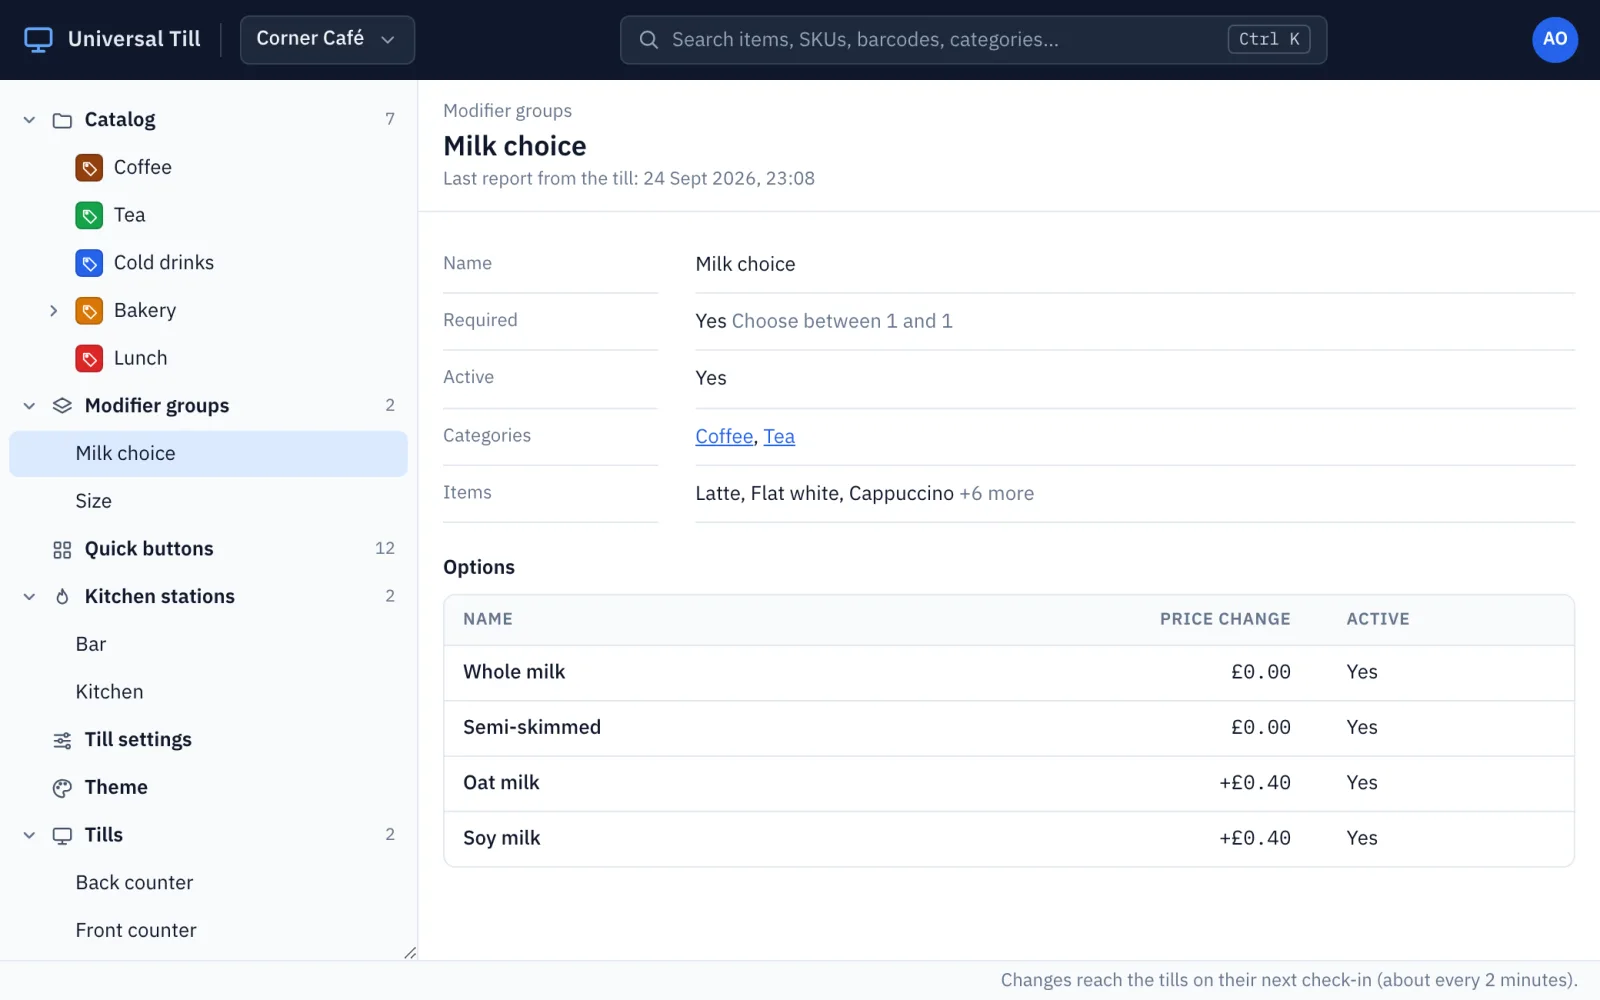
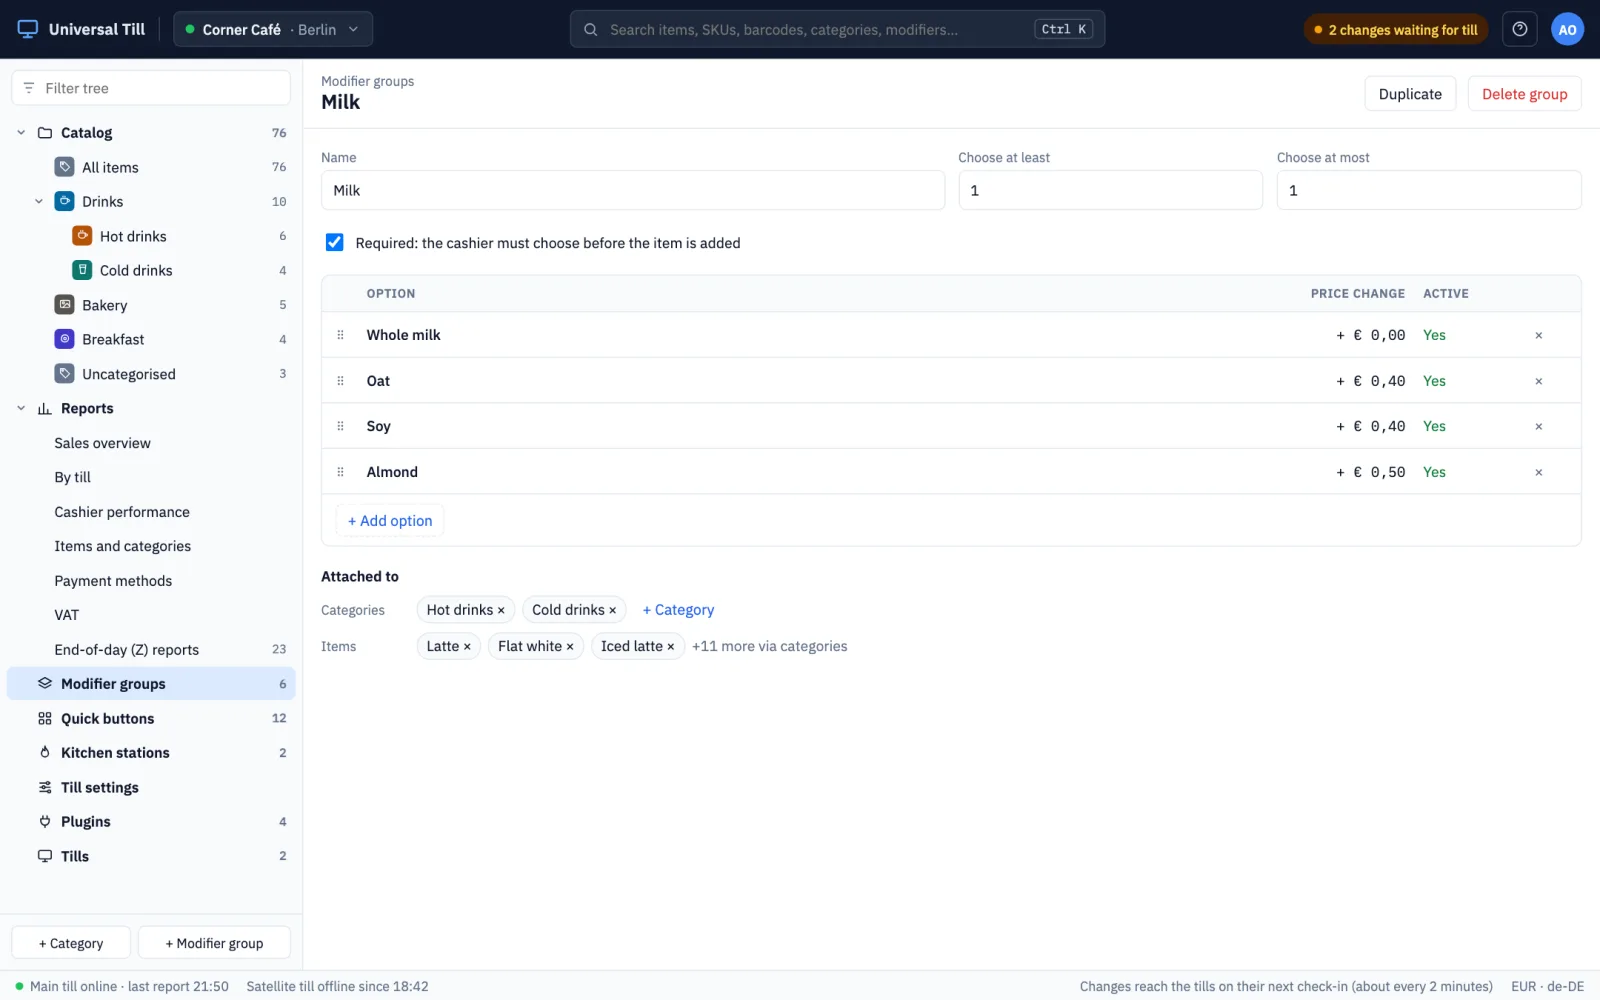
home page: Manage section shows the my.universaltill.com design (ut-docs#2611)

diff --git a/site/i18n.js b/site/i18n.js
@@ -92,10 +92,10 @@ const I18N = {
     "start.help.t": "Need a hand?",
     "start.help.d": "The till has a built-in “How to use the till” guide in your language. And you can always reach the download page for a fresh copy.",
     "manage.title": "Manage your shop from anywhere",
-    "manage.sub": "my.universaltill.com: change your catalogue, quick buttons and till settings from any browser. Every till picks the change up on its next check-in. Shown here with sample data.",
+    "manage.sub": "my.universaltill.com: change your catalogue, modifiers and till settings and see your sales from any browser. Every till picks up changes on its next check-in. Shown with sample data; some screens are still being built.",
+    "manage.catalog": "Catalogue and categories", "manage.catalog.d": "Items, prices, icons and which tills see what.",
+    "manage.reports": "Sales reports", "manage.reports.d": "Sales by hour and by till, with A4 printing. Coming soon.",
     "manage.mods": "Options and add-ons", "manage.mods.d": "Milk choices, sizes and extras, with their prices, in one place.",
-    "manage.buttons": "Quick buttons", "manage.buttons.d": "Rearrange the sale screen once and every till follows.",
-    "manage.tills": "Every till at a glance", "manage.tills.d": "Main and additional tills, their health and version.",
     "tour.title": "See it in action",
     "tour.sub": "Real screens from a running till — not mock-ups.",
     "tour.sale": "Fast touch sale screen", "tour.sale.d": "Product tiles, scan, and one-tap tender.",
@@ -269,10 +269,10 @@ const I18N = {
     "start.help.t": "Yardım mı lazım?",
     "start.help.d": "Kasada, kendi dilinizde yerleşik bir “Kasa nasıl kullanılır” kılavuzu var. Ayrıca yeni bir kopya için her zaman indirme sayfasına ulaşabilirsiniz.",
     "manage.title": "Dükkanınızı her yerden yönetin",
-    "manage.sub": "my.universaltill.com: ürün kataloğunuzu, hızlı düğmelerinizi ve kasa ayarlarınızı herhangi bir tarayıcıdan değiştirin. Her kasa değişikliği bir sonraki bağlantısında alır. Burada örnek verilerle gösterilmiştir.",
+    "manage.sub": "my.universaltill.com: ürün kataloğunuzu, seçenekleri ve kasa ayarlarını değiştirin, satışlarınızı herhangi bir tarayıcıdan görün. Her kasa değişiklikleri bir sonraki bağlantısında alır. Örnek verilerle gösterilmiştir; bazı ekranlar hâlâ geliştiriliyor.",
+    "manage.catalog": "Katalog ve kategoriler", "manage.catalog.d": "Ürünler, fiyatlar, simgeler ve hangi kasanın neyi gösterdiği.",
+    "manage.reports": "Satış raporları", "manage.reports.d": "Saatlik ve kasa bazında satışlar, A4 yazdırma ile. Yakında.",
     "manage.mods": "Seçenekler ve ekstralar", "manage.mods.d": "Süt seçenekleri, boyutlar ve ekstralar, fiyatlarıyla tek bir yerde.",
-    "manage.buttons": "Hızlı düğmeler", "manage.buttons.d": "Satış ekranını bir kez düzenleyin, tüm kasalar aynısını uygular.",
-    "manage.tills": "Tüm kasalar bir bakışta", "manage.tills.d": "Ana ve ek kasalar, durumları ve sürümleri.",
     "tour.title": "İş başında görün",
     "tour.sub": "Çalışan bir kasadan gerçek ekranlar — maket değil.",
     "tour.sale": "Hızlı dokunmatik satış ekranı", "tour.sale.d": "Ürün kutucukları, tarama ve tek dokunuşla ödeme.",
@@ -428,10 +428,10 @@ const I18N = {
     "start.help.t": "需要帮助？",
     "start.help.d": "收银台内置了以你的语言呈现的“如何使用收银台”指南。你也随时可以到下载页获取最新副本。",
     "manage.title": "随时随地管理您的店铺",
-    "manage.sub": "my.universaltill.com：在任何浏览器中修改商品目录、快捷按钮和收银台设置。每台收银台会在下次连接时获取更改。此处使用示例数据展示。",
+    "manage.sub": "my.universaltill.com：在任何浏览器中修改商品目录、选项和收银台设置，并查看销售情况。每台收银台会在下次连接时获取更改。此处使用示例数据展示；部分界面仍在开发中。",
+    "manage.catalog": "商品目录与分类", "manage.catalog.d": "商品、价格、图标，以及各收银台显示的内容。",
+    "manage.reports": "销售报表", "manage.reports.d": "按小时和按收银台统计的销售，支持 A4 打印。即将推出。",
     "manage.mods": "选项与加料", "manage.mods.d": "奶类选择、杯型和加料及其价格，集中管理。",
-    "manage.buttons": "快捷按钮", "manage.buttons.d": "只需调整一次销售界面，所有收银台同步生效。",
-    "manage.tills": "所有收银台一目了然", "manage.tills.d": "主收银台和附加收银台的状态与版本。",
     "tour.title": "实际操作演示",
     "tour.sub": "来自真实运行收银台的实拍界面 — 并非效果图。",
     "tour.sale": "快速触屏销售界面", "tour.sale.d": "商品磁贴、扫码，一键结算。",
@@ -587,10 +587,10 @@ const I18N = {
     "start.help.t": "کمک میخواهید؟",
     "start.help.d": "صندوق یک راهنمای داخلی «نحوهٔ استفاده از صندوق» به زبان شما دارد. همچنین همیشه میتوانید برای یک نسخهٔ تازه به صفحهٔ دانلود بروید.",
     "manage.title": "فروشگاهتان را از هر جایی مدیریت کنید",
-    "manage.sub": "my.universaltill.com: کاتالوگ کالا، دکمههای سریع و تنظیمات صندوق را از هر مرورگری تغییر دهید. هر صندوق تغییر را در اتصال بعدی خود دریافت میکند. اینجا با دادههای نمونه نشان داده شده است.",
+    "manage.sub": "my.universaltill.com: کاتالوگ کالا، گزینهها و تنظیمات صندوق را تغییر دهید و فروش خود را از هر مرورگری ببینید. هر صندوق تغییرات را در اتصال بعدی خود دریافت میکند. با دادههای نمونه نشان داده شده است؛ برخی صفحهها هنوز در حال ساخت هستند.",
+    "manage.catalog": "کاتالوگ و دستهبندیها", "manage.catalog.d": "کالاها، قیمتها، نمادها و اینکه هر صندوق چه چیزی را نشان دهد.",
+    "manage.reports": "گزارشهای فروش", "manage.reports.d": "فروش بر اساس ساعت و صندوق، با چاپ A4. بهزودی.",
     "manage.mods": "گزینهها و افزودنیها", "manage.mods.d": "نوع شیر، اندازه و افزودنیها همراه با قیمت، در یک جا.",
-    "manage.buttons": "دکمههای سریع", "manage.buttons.d": "صفحهٔ فروش را یک بار مرتب کنید تا همهٔ صندوقها همان را نشان دهند.",
-    "manage.tills": "همهٔ صندوقها در یک نگاه", "manage.tills.d": "صندوق اصلی و صندوقهای اضافی، وضعیت و نسخهٔ آنها.",
     "tour.title": "آن را در عمل ببینید",
     "tour.sub": "تصاویر واقعی از یک صندوق در حال کار — نه ماکت.",
     "tour.sale": "صفحهٔ فروش لمسی و سریع", "tour.sale.d": "کاشی محصولات، اسکن و پرداخت با یک لمس.",
@@ -746,10 +746,10 @@ const I18N = {
     "start.help.t": "Brauchen Sie Hilfe?",
     "start.help.d": "Die Kasse enthält eine integrierte Anleitung „So nutzen Sie die Kasse“ in Ihrer Sprache. Und Sie erreichen jederzeit die Download-Seite für eine neue Kopie.",
     "manage.title": "Verwalten Sie Ihr Geschäft von überall",
-    "manage.sub": "my.universaltill.com: Ändern Sie Sortiment, Schnelltasten und Kasseneinstellungen in jedem Browser. Jede Kasse übernimmt die Änderung bei ihrer nächsten Verbindung. Hier mit Beispieldaten gezeigt.",
+    "manage.sub": "my.universaltill.com: Ändern Sie Sortiment, Optionen und Kasseneinstellungen und sehen Sie Ihre Umsätze in jedem Browser. Jede Kasse übernimmt Änderungen bei ihrer nächsten Verbindung. Mit Beispieldaten gezeigt; einige Ansichten sind noch in Arbeit.",
+    "manage.catalog": "Sortiment und Kategorien", "manage.catalog.d": "Artikel, Preise, Symbole und welche Kasse was anzeigt.",
+    "manage.reports": "Umsatzberichte", "manage.reports.d": "Umsätze nach Stunde und nach Kasse, mit A4-Druck. Demnächst verfügbar.",
     "manage.mods": "Optionen und Extras", "manage.mods.d": "Milchsorten, Größen und Extras mit ihren Preisen an einem Ort.",
-    "manage.buttons": "Schnelltasten", "manage.buttons.d": "Den Verkaufsbildschirm einmal anordnen, und jede Kasse folgt.",
-    "manage.tills": "Alle Kassen auf einen Blick", "manage.tills.d": "Haupt- und Zusatzkassen, ihr Zustand und ihre Version.",
     "tour.title": "In Aktion erleben",
     "tour.sub": "Echte Bildschirme einer laufenden Kasse — keine Attrappen.",
     "tour.sale": "Schneller Touch-Verkaufsbildschirm", "tour.sale.d": "Produktkacheln, Scannen und Zahlung mit einem Tipp.",

diff --git a/site/index.html b/site/index.html
@@ -151,20 +151,20 @@
   <section id="manage" class="section">
     <div class="section-head">
       <h2 data-i18n="manage.title">Manage your shop from anywhere</h2>
-      <p class="section-sub" data-i18n="manage.sub">my.universaltill.com: change your catalogue, quick buttons and till settings from any browser. Every till picks the change up on its next check-in. Shown here with sample data.</p>
+      <p class="section-sub" data-i18n="manage.sub">my.universaltill.com: change your catalogue, modifiers and till settings and see your sales from any browser. Every till picks up changes on its next check-in. Shown with sample data; some screens are still being built.</p>
     </div>
     <div class="gallery">
       <figure class="shot">
+        <img src="/images/manage-catalog.webp" alt="Catalogue and categories" data-i18n-alt="manage.catalog" width="1600" height="1000" loading="lazy">
+        <figcaption><b data-i18n="manage.catalog">Catalogue and categories</b><span data-i18n="manage.catalog.d">Items, prices, icons and which tills see what.</span></figcaption>
+      </figure>
+      <figure class="shot">
+        <img src="/images/manage-reports.webp" alt="Sales reports" data-i18n-alt="manage.reports" width="1600" height="1000" loading="lazy">
+        <figcaption><b data-i18n="manage.reports">Sales reports</b><span data-i18n="manage.reports.d">Sales by hour and by till, with A4 printing. Coming soon.</span></figcaption>
+      </figure>
+      <figure class="shot">
         <img src="/images/manage-modifiers.webp" alt="Options and add-ons" data-i18n-alt="manage.mods" width="1600" height="1000" loading="lazy">
         <figcaption><b data-i18n="manage.mods">Options and add-ons</b><span data-i18n="manage.mods.d">Milk choices, sizes and extras, with their prices, in one place.</span></figcaption>
-      </figure>
-      <figure class="shot">
-        <img src="/images/manage-quick-buttons.webp" alt="Quick buttons" data-i18n-alt="manage.buttons" width="1600" height="1000" loading="lazy">
-        <figcaption><b data-i18n="manage.buttons">Quick buttons</b><span data-i18n="manage.buttons.d">Rearrange the sale screen once and every till follows.</span></figcaption>
-      </figure>
-      <figure class="shot">
-        <img src="/images/manage-tills.webp" alt="Every till at a glance" data-i18n-alt="manage.tills" width="1600" height="1000" loading="lazy">
-        <figcaption><b data-i18n="manage.tills">Every till at a glance</b><span data-i18n="manage.tills.d">Main and additional tills, their health and version.</span></figcaption>
       </figure>
     </div>
   </section>

diff --git a/docs/code-reviews/2026-09-24-new-till-screenshots-2611.md b/docs/code-reviews/2026-09-24-new-till-screenshots-2611.md
@@ -24,3 +24,14 @@ Otherwise clean:
 - The fa strings use Persian ی/ک.
 
 **Exposure.** No new data. All screens show demo or sample data. The version label v0.21.4 is public anyway.
+
+## Follow-up: design-canvas shots in #manage
+
+At the product owner's request, the #manage images are now renders of the owner-approved design canvas for my.universaltill.com.
+- **How they were made:** the canvas's own `dc-runtime.js` was served locally, and each view was reached by clicking the tree (catalog, sales overview, modifier groups). The owner's avatar initials were swapped for neutral "AO".
+- **Images:** they replace the three app-rendered shots (quick buttons and tills removed).
+- **Strings:** `manage.catalog` and `manage.reports` added in 5 locales; `manage.buttons` and `manage.tills` removed.
+
+The Reports screen is design, not shipped, so the section sub says "some screens are still being built" and the Reports caption says "Coming soon".
+
+**Review:** a Sonnet subagent confirmed the translations match, the fa strings use Persian letter forms, the images hold sample data only, and nothing references the removed keys or images. Its one finding ("ready to print" read as shipped) is **fixed**. 174 tests pass.
